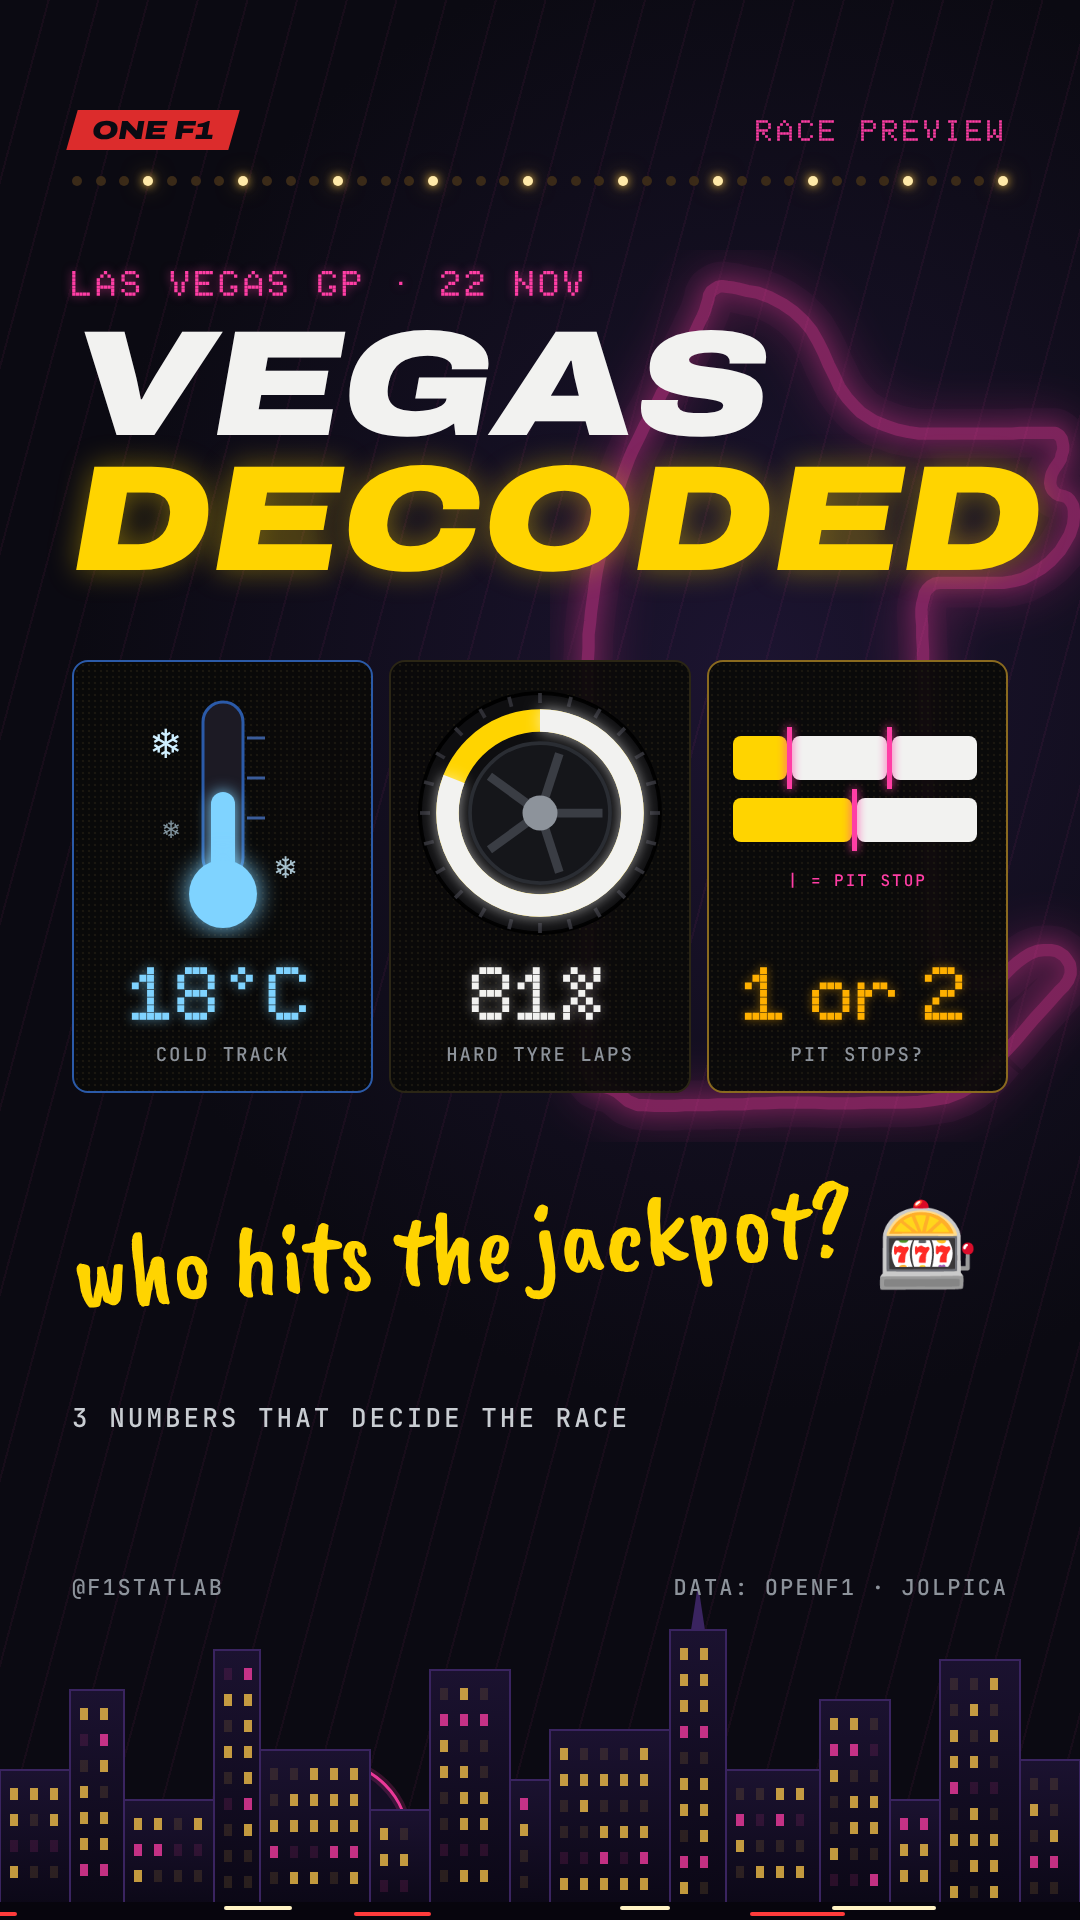
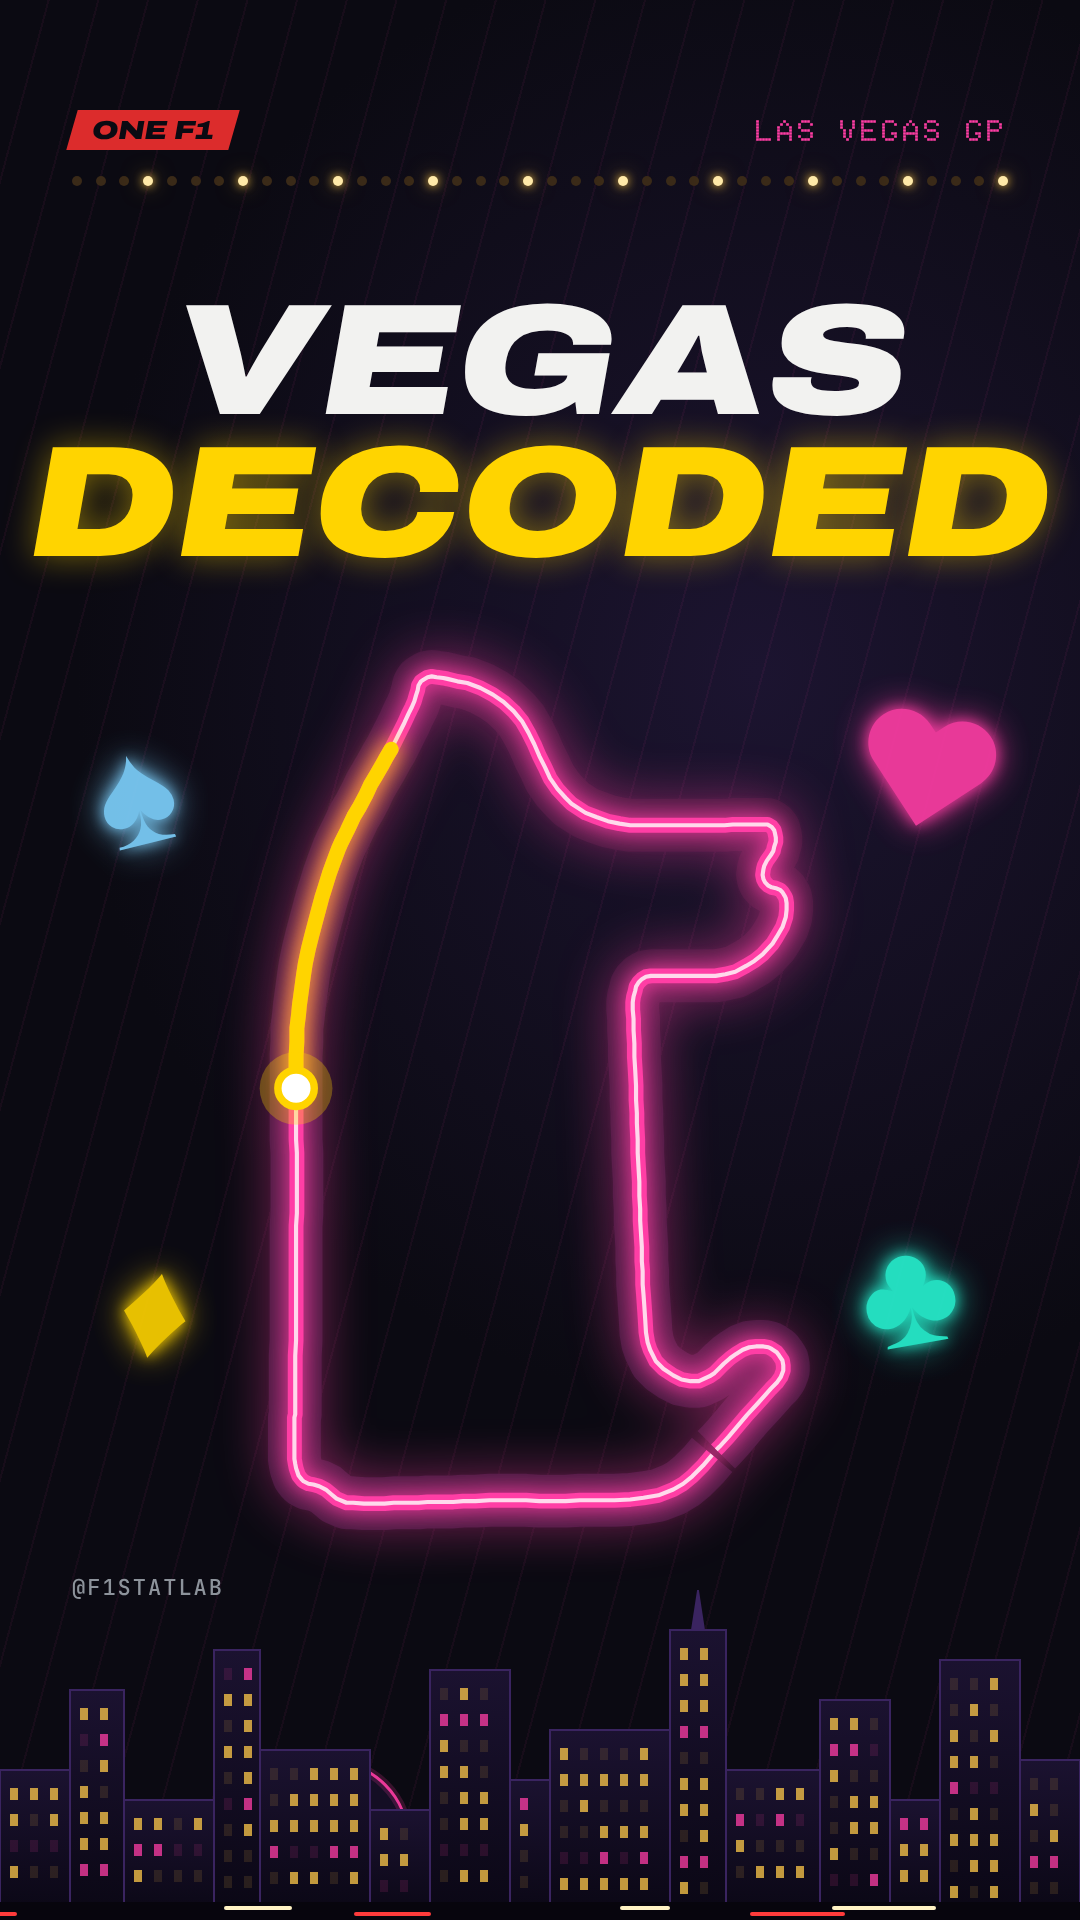
Vegas reel cover: visual-only version (headline, neon track, card suits, skyline)
Claude-Session: https://claude.ai/code/session_016E9C1XvYpsSCiakD2mRjGd

diff --git a/content/vegas-preview-carousel/export-cover.js b/content/vegas-preview-carousel/export-cover.js
@@ -80,32 +80,20 @@ const COVERS = {
     <div class="hand4">${[["VER", "♦", "#C8102E", -12, 6, -330, 40], ["RUS", "♠", "#14161A", -4, 3, -110, 0], ["ANT", "♣", "#14161A", 4, -3, 110, 0], ["HAM", "♥", "#C8102E", 12, -6, 330, 40]].map(([c, s, col, r, l, dx, dy]) =>
       `<div class="card" style="transform:translate(${dx}px,${dy}px) rotate(${r}deg)"><span class="cn tl" style="color:${col}">${s}</span><span class="cn br" style="color:${col}">${s}</span>${helmet(c, { size: 170, look: l })}<b>${c}</b></div>`).join("")}</div>
     <div style="position:absolute;left:0;right:0;top:1360px;text-align:center"><span class="hand" style="font-size:88px;color:#FFD400">pick your card 👇</span></div>`,
-  // F: matches the final reel (skyline, marquee lights, the three things it explains, drawn as a thermometer, a tyre and pit-stop bars; no driver helmets). Built on top of the reel's own stage.
-  decoded: () => { const pts = LAP.map((q) => q[0] + "," + q[1]).join(" ");
-    const thermo = `<svg viewBox="0 0 200 250" width="200" height="250"><rect x="80" y="14" width="40" height="176" rx="20" fill="#1C1A24" stroke="#2B5AA8" stroke-width="3"/>
-      ${[50, 90, 130].map((y) => `<line x1="124" x2="142" y1="${y}" y2="${y}" stroke="#3A5C9A" stroke-width="3"/>`).join("")}
-      <rect x="88" y="104" width="24" height="90" rx="12" fill="#7FD3FF" style="filter:drop-shadow(0 0 8px #7FD3FF)"/><circle cx="100" cy="206" r="34" fill="#7FD3FF" style="filter:drop-shadow(0 0 12px #7FD3FF)"/>
-      <text x="26" y="70" font-size="40" fill="#CFEFFF">❄</text><text x="150" y="190" font-size="30" fill="#CFEFFF" opacity=".8">❄</text><text x="38" y="150" font-size="24" fill="#CFEFFF" opacity=".6">❄</text></svg>`;
-    const tyre = `<svg viewBox="0 0 200 200" width="250" height="250"><circle cx="100" cy="100" r="96" fill="#0E0E10" stroke="#000" stroke-width="3"/>
-      ${Array.from({ length: 24 }, (_, i) => { const t = i * 15 * Math.PI / 180; return `<line x1="${100 + 88 * Math.cos(t)}" y1="${100 + 88 * Math.sin(t)}" x2="${100 + 96 * Math.cos(t)}" y2="${100 + 96 * Math.sin(t)}" stroke="#2E2E34" stroke-width="3"/>`; }).join("")}
-      <circle cx="100" cy="100" r="74" fill="none" stroke="#FFD400" stroke-width="18"/><circle cx="100" cy="100" r="74" fill="none" stroke="#F2F2F0" stroke-width="18" pathLength="100" stroke-dasharray="81 100" transform="rotate(-90 100 100)" style="filter:drop-shadow(0 0 6px rgba(255,255,255,.6))"/>
-      <circle cx="100" cy="100" r="56" fill="#15161A" stroke="#2A2D33" stroke-width="3"/>${[0, 72, 144, 216, 288].map((d) => `<line x1="100" y1="100" x2="${100 + 50 * Math.cos(d * Math.PI / 180)}" y2="${100 + 50 * Math.sin(d * Math.PI / 180)}" stroke="#3A3D44" stroke-width="7"/>`).join("")}<circle cx="100" cy="100" r="14" fill="#8D939B"/></svg>`;
-    const lane = (st) => `<div style="position:relative;height:44px;margin:0 6px 18px">${st.map(([c, x, w]) => `<i style="position:absolute;left:${x}%;width:calc(${w}% - 5px);top:0;height:44px;border-radius:8px;background:${c}"></i>`).join("")}${st.slice(1).map(([c, x]) => `<i style="position:absolute;left:calc(${x}% - 5px);top:-9px;width:5px;height:62px;background:#FF3EA5;box-shadow:0 0 10px #FF3EA5"></i>`).join("")}</div>`;
-    const pits = `<div style="width:100%;height:250px;display:flex;flex-direction:column;justify-content:center">${lane([["#FFD400", 0, 24], ["#F2F2F0", 24, 40], ["#F2F2F0", 64, 36]])}${lane([["#FFD400", 0, 50], ["#F2F2F0", 50, 50]])}<span class="lbl" style="font-size:16px;color:#FF3EA5;letter-spacing:2px">| = PIT STOP</span></div>`;
+  // F: matches the final reel (skyline, marquee lights, visuals only: headline, neon track with a car, card suits; no data, no helmets). Built on top of the reel's own stage.
+  decoded: () => { const pts = LAP.map((q) => q[0] + "," + q[1]).join(" "), c = LAP[188], trail = LAP.slice(160, 189).map((q) => q[0] + "," + q[1]).join(" ");
+    const suit = (ch, x, y, sz, col, rot) => `<span style="position:absolute;left:${x}px;top:${y}px;font-size:${sz}px;line-height:1;color:${col};transform:rotate(${rot}deg);text-shadow:0 0 14px ${col},0 0 34px ${col};opacity:.9">${ch}</span>`;
     return `
-    <style>.cv{position:absolute;inset:0;z-index:4}.cv .track{position:absolute;right:-30px;top:250px;width:560px;height:892px;opacity:.45}
-      .cv .kick{position:absolute;left:72px;top:262px;margin:0;font-size:36px}.cv .h{position:absolute;left:72px;top:318px;font-size:150px;line-height:.9;margin:0}.cv .h em{display:block;text-shadow:0 0 30px rgba(255,212,0,.4)}
-      .tz{position:absolute;left:72px;right:72px;top:660px;display:grid;grid-template-columns:repeat(3,1fr);gap:16px}
-      .tz .panel{padding:26px 18px 24px;text-align:center;display:flex;flex-direction:column;align-items:center;background-color:rgba(10,10,8,.94)}.tz b{display:block;font-size:76px;line-height:1;white-space:nowrap;margin-top:18px}.tz .lbl{display:block;margin-top:10px;font-size:19px;letter-spacing:2px}</style>
-    <div class="hdr"><span class="brand"><span>ONE F1</span></span><span class="pg" style="color:#FF3EA5">RACE PREVIEW</span></div>
-    <div class="cv"><svg class="track" viewBox="-44 -44 683 1088"><polyline points="${pts}" fill="none" stroke="#2A1530" stroke-width="60" stroke-linejoin="round"/>
-      <polyline points="${pts}" fill="none" stroke="#FF3EA5" stroke-width="15" stroke-linejoin="round" style="filter:drop-shadow(0 0 12px #FF3EA5) drop-shadow(0 0 30px #FF3EA5)"/></svg>
-      <div class="kick">LAS VEGAS GP · 22 NOV</div><h1 class="h">Vegas<em>decoded</em></h1>
-      <div class="tz"><div class="panel" style="border-color:#2B5AA8">${thermo}<b class="led" style="color:#7FD3FF;text-shadow:0 0 12px rgba(127,211,255,.6)">18°C</b><span class="lbl">cold track</span></div>
-        <div class="panel">${tyre}<b class="led" style="color:#F2F2F0;text-shadow:0 0 12px rgba(255,255,255,.4)">81%</b><span class="lbl">hard tyre laps</span></div>
-        <div class="panel" style="border-color:#8A6A1F">${pits}<b class="led" style="word-spacing:-24px">1 or 2</b><span class="lbl">pit stops?</span></div></div>
-      <div style="position:absolute;left:72px;top:1180px;display:flex;align-items:center;gap:20px"><span class="hand" style="font-size:104px;transform:rotate(-4deg);display:inline-block">who hits the jackpot?</span><span style="font-size:84px">🎰</span></div>
-      <div style="position:absolute;left:72px;top:1400px" class="lbl"><span style="font-size:26px;color:#C9CDD2">3 numbers that decide the race</span></div></div>`; },
+    <style>.cv{position:absolute;inset:0;z-index:4}.cv .track{position:absolute;left:258px;top:640px;width:565px;height:900px;overflow:visible}
+      .cv .h{position:absolute;left:0;right:0;top:290px;text-align:center;font-size:158px;line-height:.9;margin:0}.cv .h em{display:block;text-shadow:0 0 34px rgba(255,212,0,.45)}</style>
+    <div class="hdr"><span class="brand"><span>ONE F1</span></span><span class="pg" style="color:#FF3EA5">LAS VEGAS GP</span></div>
+    <div class="cv"><h1 class="h">Vegas<em>decoded</em></h1>
+      ${suit("♠", 96, 720, 150, "#7FD3FF", -14)}${suit("♥", 850, 700, 150, "#FF3EA5", 12)}${suit("♦", 120, 1240, 140, "#FFD400", 10)}${suit("♣", 860, 1220, 150, "#27F4D2", -10)}
+      <svg class="track" viewBox="-44 -44 683 1088"><polyline points="${pts}" fill="none" stroke="#2A1530" stroke-width="64" stroke-linejoin="round"/>
+      <polyline points="${pts}" fill="none" stroke="#FF3EA5" stroke-width="18" stroke-linejoin="round" style="filter:drop-shadow(0 0 12px #FF3EA5) drop-shadow(0 0 34px #FF3EA5)"/>
+      <polyline points="${pts}" fill="none" stroke="#FFD9EC" stroke-width="5" stroke-linejoin="round"/>
+      <polyline points="${trail}" fill="none" stroke="#FFD400" stroke-width="18" stroke-linecap="round" stroke-linejoin="round" style="filter:drop-shadow(0 0 14px #FFD400)"/>
+      <circle cx="${c[0]}" cy="${c[1]}" r="44" fill="#FFD400" opacity=".3"/><circle cx="${c[0]}" cy="${c[1]}" r="22" fill="#fff" stroke="#FFD400" stroke-width="9"/></svg></div>`; },
 };
 
 (async () => {
@@ -113,7 +101,7 @@ const COVERS = {
   for (const [id, fn] of Object.entries(COVERS)) {
     await p.goto('file://' + path.join(__dirname, 'vegas-reel.html')); await p.evaluate(() => document.fonts.ready);
     await p.evaluate(([id, src]) => { const st = document.querySelector('.stage'), html = (0, eval)('(' + src + ')')(), ftr = '<div class="ftr"><span>@F1STATLAB</span><span>DATA: OPENF1 · JOLPICA</span></div>';
-      if (id === 'decoded') { window.reel.seek(3); st.querySelectorAll('.scene,.sweep,.snow,.hdr,.ftr').forEach((e) => e.remove()); st.insertAdjacentHTML('beforeend', html + ftr); }   // keep the skyline and marquee lights
+      if (id === 'decoded') { window.reel.seek(3); st.querySelectorAll('.scene,.sweep,.snow,.hdr,.ftr').forEach((e) => e.remove()); st.insertAdjacentHTML('beforeend', html + '<div class="ftr"><span>@F1STATLAB</span><span></span></div>'); }   // keep the skyline and marquee lights
       else st.innerHTML = html + ftr; }, [id, fn.toString()]);
     await p.waitForTimeout(300);
     await p.screenshot({ path: path.join(OUT, `onef1-vegas-cover-${id}.png`) });
